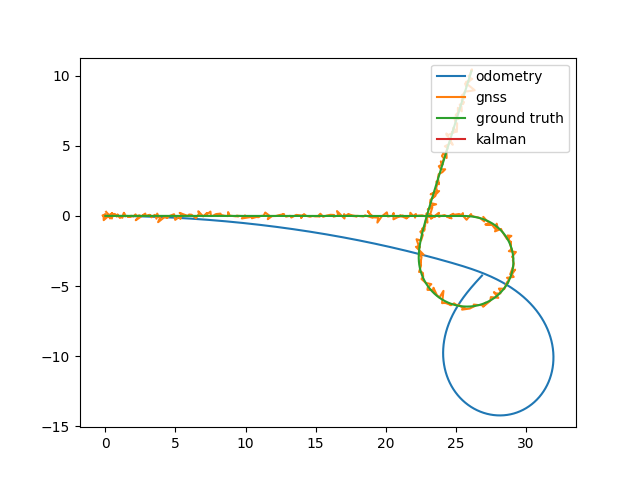
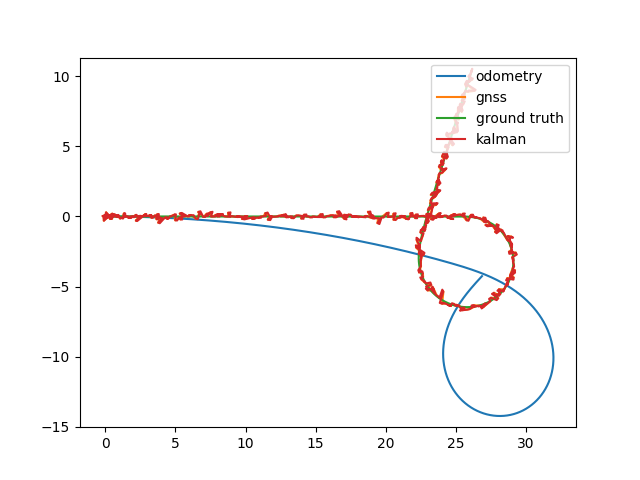
Now works some what

diff --git a/LP4-AutonomousRobots/Assignment 3/assignment3.py b/LP4-AutonomousRobots/Assignment 3/assignment3.py
@@ -45,55 +45,54 @@ def plot_motion(x_list, y_list, labels):
         filename = 'odometry_gnss_gt.png'
     if len(x_list) == 4:
        filename = 'kalman.png'
-    plt.savefig(os.path.join('figures', filename))
+    #plt.savefig(os.path.join('figures', filename))
     plt.show()
 
+def get_xhat(xhat, index, theta_dot, v):
+    xhat[0] = v[index]
+    u = np.array([0, theta_dot[index], xhat[0]*np.cos(xhat[1]), xhat[0]*np.sin(xhat[1])])*dt
+    return xhat + u
 
-def kalman_filter(vl, vr, gnns_dict, time, theta, v, x, y, theta_dot):
-    # initialize matricies
-    state = np.zeros((len(time), 2))
-    u = np.array([np.zeros([len(theta_dot)]), theta_dot, x, y])*dt
+def get_F(xhat):
+    return np.array([[1, 0, 0, 0],
+                     [0, 1, 0, 0],
+                     [(np.cos(xhat[1]))*dt, (-xhat[0]*np.sin(xhat[1]))*dt, 1, 0],
+                     [(np.sin(xhat[1]))*dt, (xhat[0]*np.cos(xhat[1]))*dt, 0, 1]])
 
-    F = np.array([[1, 0, 0, 0],
-                  [0, 1, 0, 0],
-                  [dt*np.cos(theta), v*np.sin(theta)*dt, 1, 0],
-                  [dt*np.sin(theta), -v*np.cos(theta)*dt, 0, 1]])
-    H = np.eye(4)
-    H[:2, :2] = 0
-    Q = np.eye(4)*0.01   
-    R = np.eye(4)*0.01
+def kalman_filter(gnns_dict, time, theta, v, x, y, theta_dot):
+    state = np.zeros((len(time), 4))
     P = np.eye(4)
+    H = P.copy()
+    H[:2, :2] = 0
+    Q = P * 0.01   
+    R = P * 0.1
 
-    # initialize state
     xhat = np.array([v[0], theta[0], x[0], y[0]])
     for index, t in enumerate(time):
-        xhat = xhat + u[:,index]
+        xhat = get_xhat(xhat, index, theta_dot, v)
+        F = get_F(xhat)    
         P = F @ P @ F.T + Q
         if t in gnns_dict:
             G = P @ H.T @ np.linalg.pinv(H @ P @ H.T + R)
-            xhat = xhat + G @ (gnns_dict[t] - xhat)
+            xhat += + G @ (np.array([0, 0, gnns_dict[t][0], gnns_dict[t][1]]) - xhat)
             P = (np.eye(4) - G @ H) @ P
-        state[index] = xhat[:2]
-    return state[0], state[1]
-            
+        state[index] = xhat
+    return state[:,2], state[:,3]
+
     
 
 def main():
     time, vl, vr = read_data('wheelspeeds-1.csv', 'time', 'vl', 'vr')
     t, gnss_x, gnss_y = read_data('gnss-1.csv', 't', 'x', 'y')
     gnss_dict = {t[i]: (gnss_x[i], gnss_y[i]) for i in range(len(t))}
-    # save dict with t as key and gnss_x, gnss_y as values
-    
     gt_x, gt_y, _ = read_data('groundtruth-1.csv', 'x', 'y', 'phi')
     
     theta_dot = (vr-vl)/(2*R)
     velocity = (vr+vl)/2
     x, y, theta = get_position(theta_dot, velocity)
 
-    kf_x, kf_y = kalman_filter(vl, vr, gnss_dict, time, theta, velocity, x, y, theta_dot)
-
+    kf_x, kf_y = kalman_filter(gnss_dict, time, theta, velocity, x, y, theta_dot)
     plot_motion([x, gnss_x, gt_x, kf_x], [y, gnss_y, gt_y, kf_y], ['odometry', 'gnss', 'ground truth', 'kalman'])
-
 
 
 if __name__== '__main__':
